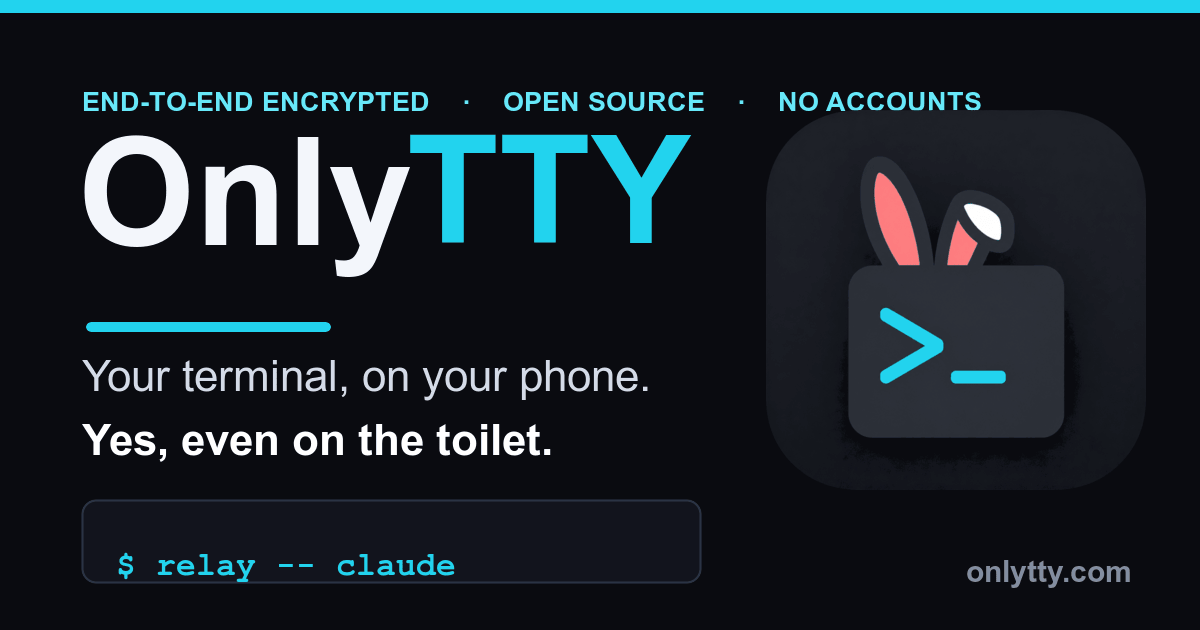
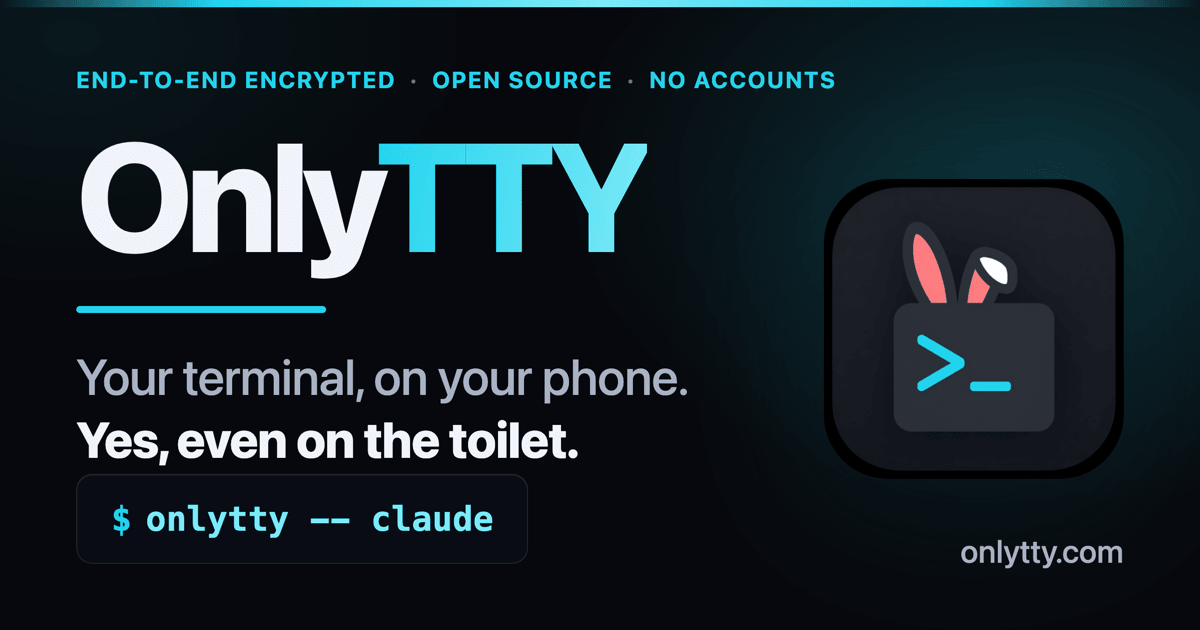
brand(og): regenerate the social card with the current `onlytty` command
The OG card showed `$ relay -- claude` (the old binary name) on every social
share. The hand-export had no scripted source, so replace it with a reproducible
generator: dev/brand/og.html (built from the live design tokens + the app icon)
rendered by dev/brand/og-render.mjs (Playwright 2× → sips 1200×630 → pngquant +
oxipng). Faithful to the original layout; now shows `$ onlytty -- claude`, ~67KB.
Brand README documents the pipeline; banner.png noted as the superseded source.

diff --git a/dev/brand/og.html b/dev/brand/og.html
@@ -1,0 +1,73 @@
+<!doctype html>
+<!-- OnlyTTY Open Graph card source (1200×630). Generated, reproducible replacement
+     for the hand-exported og.png (which baked in a stale `$ relay -- claude`).
+     Regenerate: node dev/brand/og-render.mjs  (renders this at 2× → sips → optimize). -->
+<html lang="en">
+<head>
+<meta charset="utf-8">
+<style>
+  :root {
+    --bg: #07080c; --accent: #22d3ee; --accent-2: #7de9f7;
+    --fg: #f0f3f9; --fg-2: #a8b3c5; --dim: #6c7689;
+    --line-2: rgba(255,255,255,.11);
+  }
+  * { margin: 0; padding: 0; box-sizing: border-box; }
+  html, body { width: 1200px; height: 630px; }
+  body {
+    background: var(--bg);
+    font-family: ui-sans-serif, system-ui, -apple-system, "Segoe UI", Roboto, Helvetica, Arial, sans-serif;
+    color: var(--fg); overflow: hidden; position: relative;
+    /* calm brand depth: two soft cyan glows, like the site */
+    background-image:
+      radial-gradient(60% 75% at 88% 28%, rgba(34,211,238,.18), transparent 70%),
+      radial-gradient(50% 60% at 6% 6%, rgba(34,211,238,.08), transparent 70%);
+  }
+  /* cyan top edge */
+  .topbar { position: absolute; top: 0; left: 0; right: 0; height: 7px;
+    background: linear-gradient(90deg, transparent, var(--accent) 18%, var(--accent-2) 50%, var(--accent) 82%, transparent); }
+  .card { position: absolute; inset: 0; padding: 66px 76px; display: flex; flex-direction: column; }
+  .body { display: flex; flex: 1; min-height: 0; }
+  .left { display: flex; flex-direction: column; flex: 1; min-width: 0; }
+  .eyebrow { color: var(--accent); font-weight: 700; font-size: 23px; letter-spacing: .08em;
+    text-transform: uppercase; white-space: nowrap; }
+  .eyebrow .sep { color: var(--dim); margin: 0 14px; }
+  .wordmark { font-weight: 800; font-size: 154px; line-height: .98; letter-spacing: -.045em; margin-top: 26px; }
+  .wordmark .only { color: var(--fg); }
+  .wordmark .tty {
+    background: linear-gradient(100deg, var(--accent), var(--accent-2));
+    -webkit-background-clip: text; background-clip: text; color: transparent; }
+  .rule { width: 250px; height: 7px; border-radius: 6px; background: var(--accent); margin: 36px 0 34px; }
+  .tag1 { font-size: 50px; font-weight: 500; color: var(--fg-2); letter-spacing: -.01em; }
+  .tag2 { font-size: 50px; font-weight: 800; color: var(--fg); letter-spacing: -.015em; margin-top: 4px; }
+  .snippet { margin-top: auto; align-self: flex-start; background: #090c14; border: 1px solid var(--line-2);
+    border-radius: 16px; padding: 24px 34px; box-shadow: inset 0 1px 0 rgba(255,255,255,.06);
+    font-family: ui-monospace, SFMono-Regular, "SF Mono", Menlo, Consolas, monospace;
+    font-size: 34px; font-weight: 600; }
+  .snippet .p { color: var(--accent); margin-right: 14px; }
+  .snippet .cmd { color: var(--accent-2); }
+  .right { display: flex; align-items: center; justify-content: flex-end; padding-left: 40px; }
+  .icon { width: 300px; height: 300px; border-radius: 64px;
+    filter: drop-shadow(0 30px 60px rgba(0,0,0,.55)) drop-shadow(0 0 60px rgba(34,211,238,.18)); }
+  .domain { position: absolute; right: 76px; bottom: 60px; font-size: 32px; font-weight: 500; color: var(--fg-2); }
+</style>
+</head>
+<body>
+  <div class="topbar"></div>
+  <div class="card">
+    <div class="eyebrow">End-to-end encrypted<span class="sep">·</span>Open source<span class="sep">·</span>No accounts</div>
+    <div class="body">
+      <div class="left">
+        <div class="wordmark"><span class="only">Only</span><span class="tty">TTY</span></div>
+        <div class="rule"></div>
+        <div class="tag1">Your terminal, on your phone.</div>
+        <div class="tag2">Yes, even on the toilet.</div>
+        <div class="snippet"><span class="p">$</span><span class="cmd">onlytty -- claude</span></div>
+      </div>
+      <div class="right">
+        <img class="icon" src="../../portal/priv/static/assets/icon-512.png" alt="">
+      </div>
+    </div>
+  </div>
+  <div class="domain">onlytty.com</div>
+</body>
+</html>

diff --git a/dev/brand/README.md b/dev/brand/README.md
@@ -8,25 +8,29 @@ asset(s) it maps to below.
 
 ## Source → served asset
 
-The exports were done by hand (no scripted pipeline), so exact tool/settings aren't
-recorded — re-export at the target dimensions below, then optimize the PNG
-(e.g. `oxipng`/`pngquant`) before committing it to `priv/static`.
+The icon/mascot exports were done by hand (no scripted pipeline), so exact
+tool/settings aren't recorded — re-export at the target dimensions below, then
+optimize the PNG (e.g. `oxipng`/`pngquant`) before committing it to `priv/static`.
+The OG card is the exception: it's generated from HTML (see `og.html` below).
 
 | Source (this dir) | Served asset(s) | Used for |
 |-------------------|-----------------|----------|
 | `app-icon.png` | `priv/static/assets/icon-192.png` (192×192), `icon-512.png` (512×512), `apple-touch-icon.png` (180×180), `priv/static/favicon.ico` | PWA manifest icons, iOS home-screen icon, favicon |
-| `banner.png` | `priv/static/assets/og.png` (1200×630) | Open Graph / social link preview |
+| `og.html` (rendered by `og-render.mjs`) | `priv/static/assets/og.png` (1200×630) | Open Graph / social link preview |
+| `banner.png` | — | legacy hand-drawn OG source, superseded by `og.html` (kept as a historical original) |
 | `mascot-color.png` | `priv/static/assets/brand/mascot.png` | the mascot shown on the site |
 | `mascot-mono.png` | — | monochrome mascot variant; not currently served |
 | `logo-lockup-light.png` | — | wordmark/lockup for external use (READMEs, decks); not currently served |
 
 The served PNGs are optimized in place (same dimensions/filenames) with **pngquant**
 (`--quality=80-96 --strip`) then **oxipng** (`-o6`) — near-lossless, no visible quality
-loss. Re-run that pair after re-exporting any served PNG. Current sizes: og.png ~39 KB,
+loss. Re-run that pair after re-exporting any served PNG. Current sizes: og.png ~67 KB,
 icon-512 ~25 KB, icon-192 ~6 KB, apple-touch ~5 KB, mascot ~15 KB.
 
-NOTE: `og.png` still shows a stale `$ relay -- claude` snippet — it needs re-exporting
-from `banner.png` with the `onlytty` command (a content change, not an optimization).
+The OG card (`og.png`) is generated, not hand-exported: edit `og.html`, then
+`node dev/brand/og-render.mjs` (Playwright renders it at 2×, `sips` downscales to
+1200×630, then pngquant + oxipng optimize). It uses the live design tokens + the
+app icon, so it stays on-brand and shows the current `$ onlytty -- claude`.
 
 Since the repo isn't published yet, dropping these sources entirely (keeping them in
 the design tool / a release artifact) is a legitimate alternative to versioning them